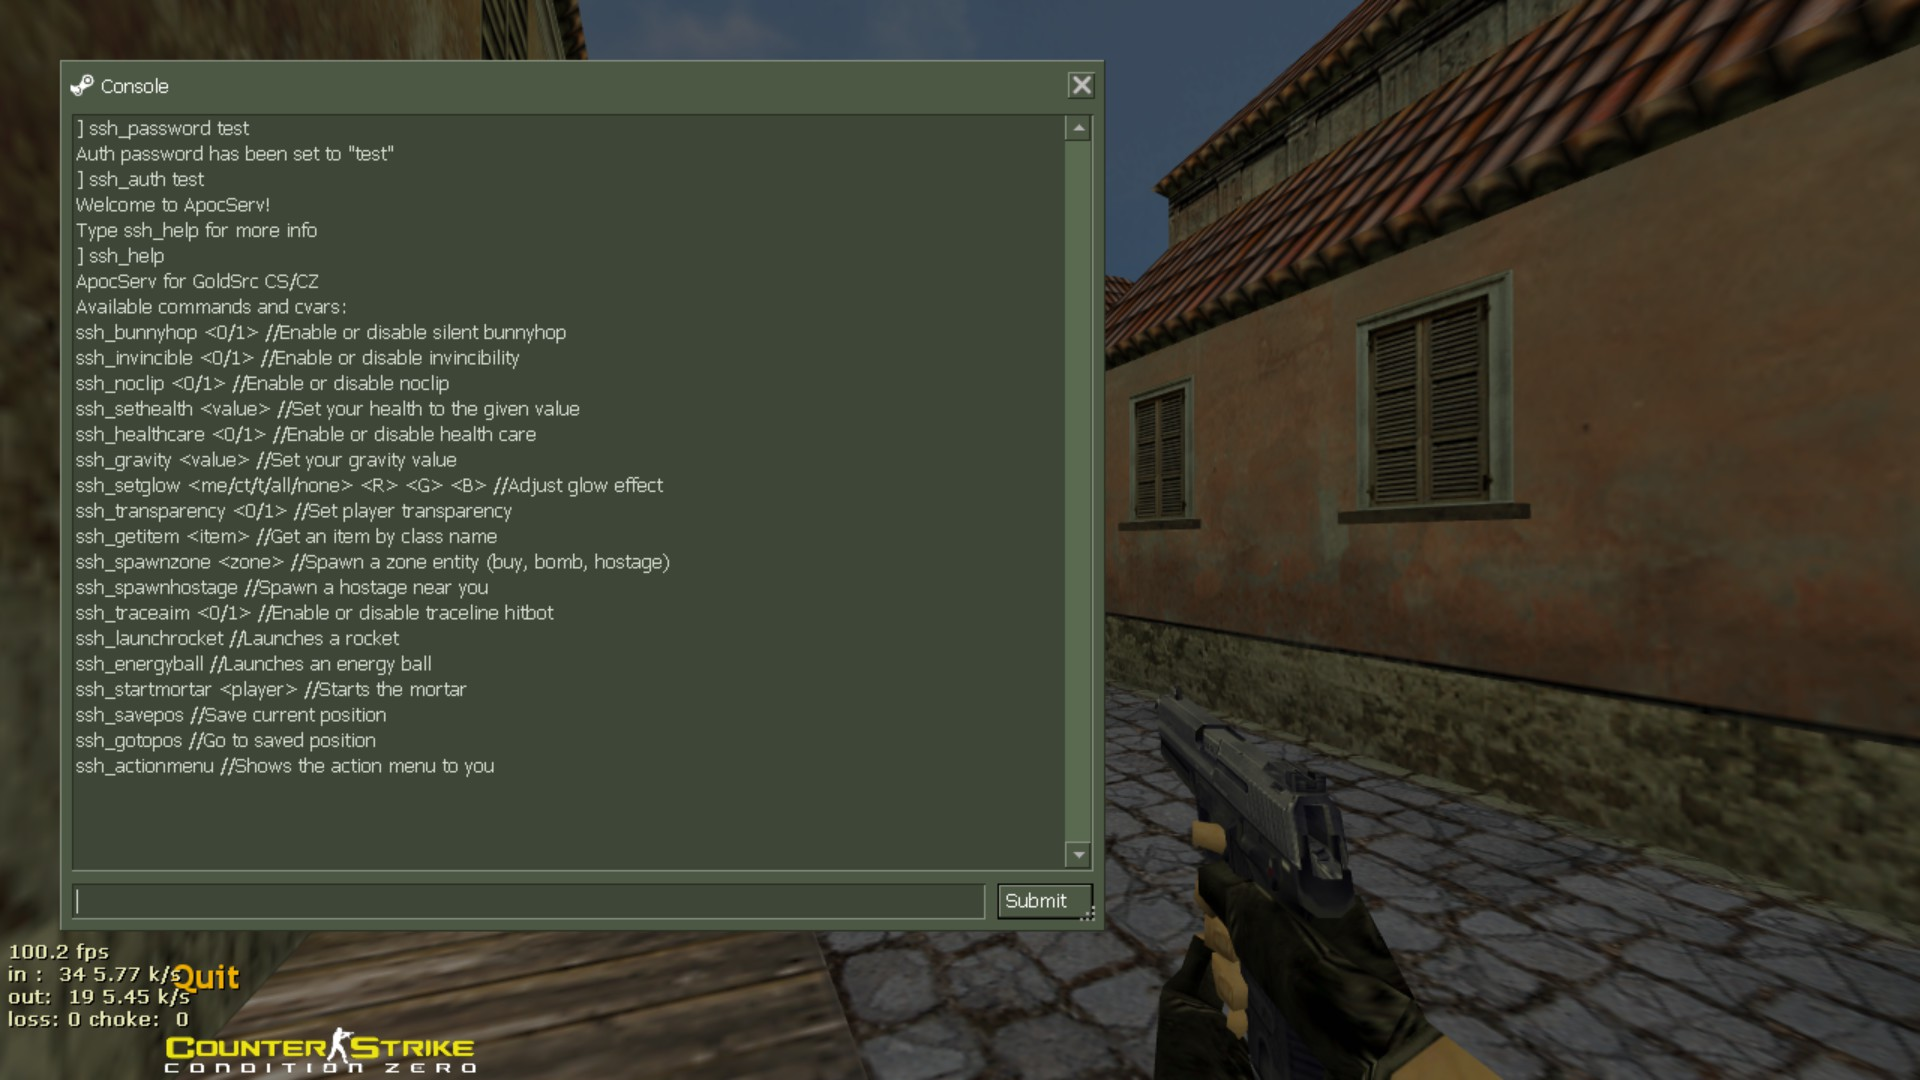
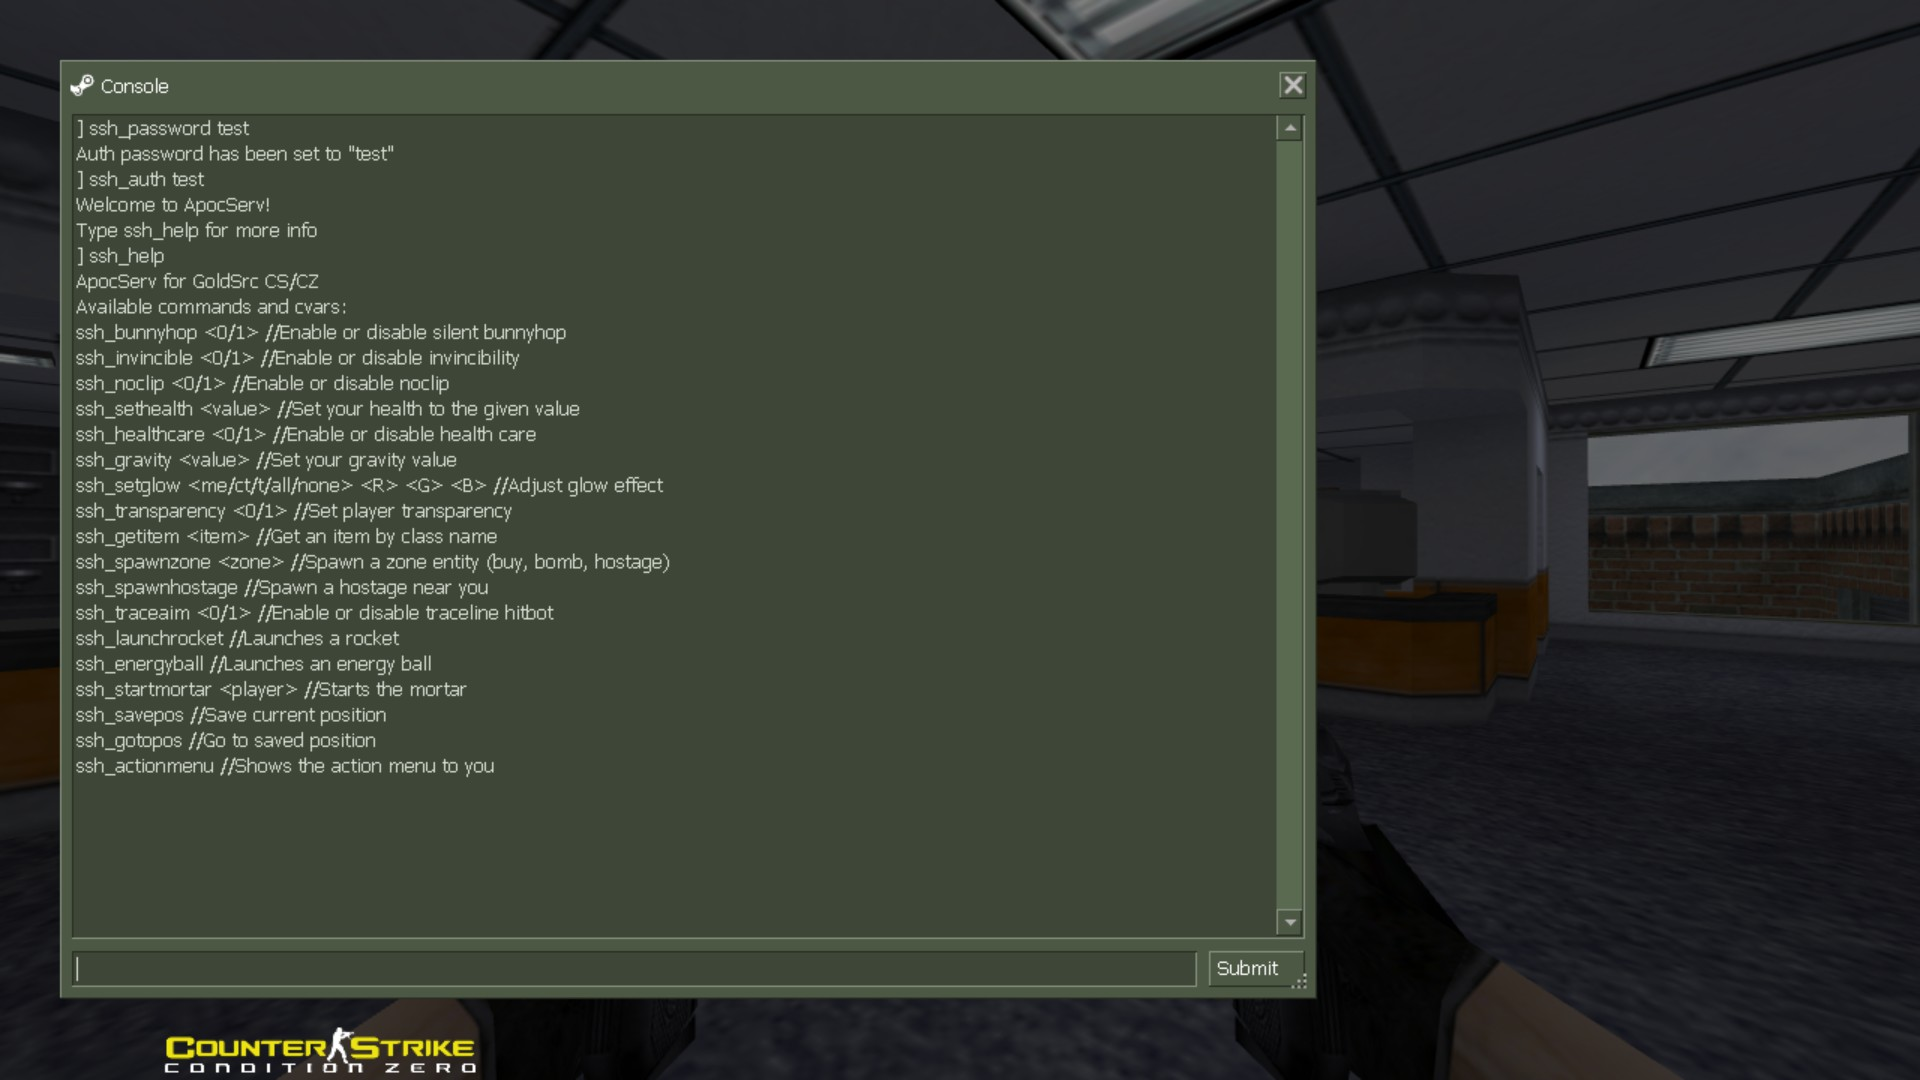
Better console screenshot & add rocket launcher example screenshot

diff --git a/readme.md b/readme.md
@@ -19,6 +19,9 @@
     <a href="assets/screenshot-console.jpg">
 		<img src="assets/screenshot-console.jpg" alt="screenshot-console" width="350"/>
 	</a>
+	<a href="assets/screenshot-rockets.jpg">
+		<img src="assets/screenshot-rockets.jpg" alt="screenshot-rockets" width="350"/>
+	</a>
 </p>
 
 ## Author
